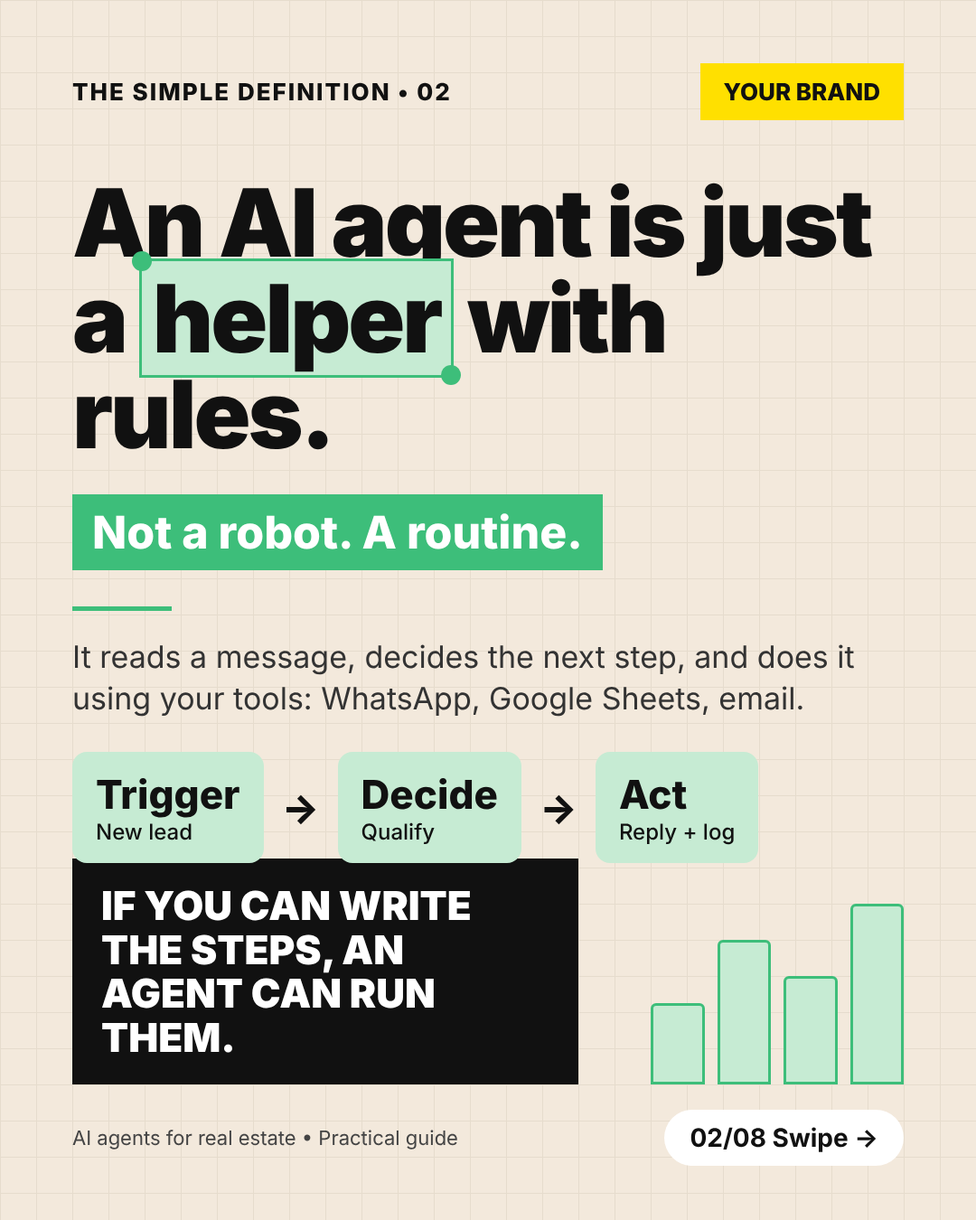
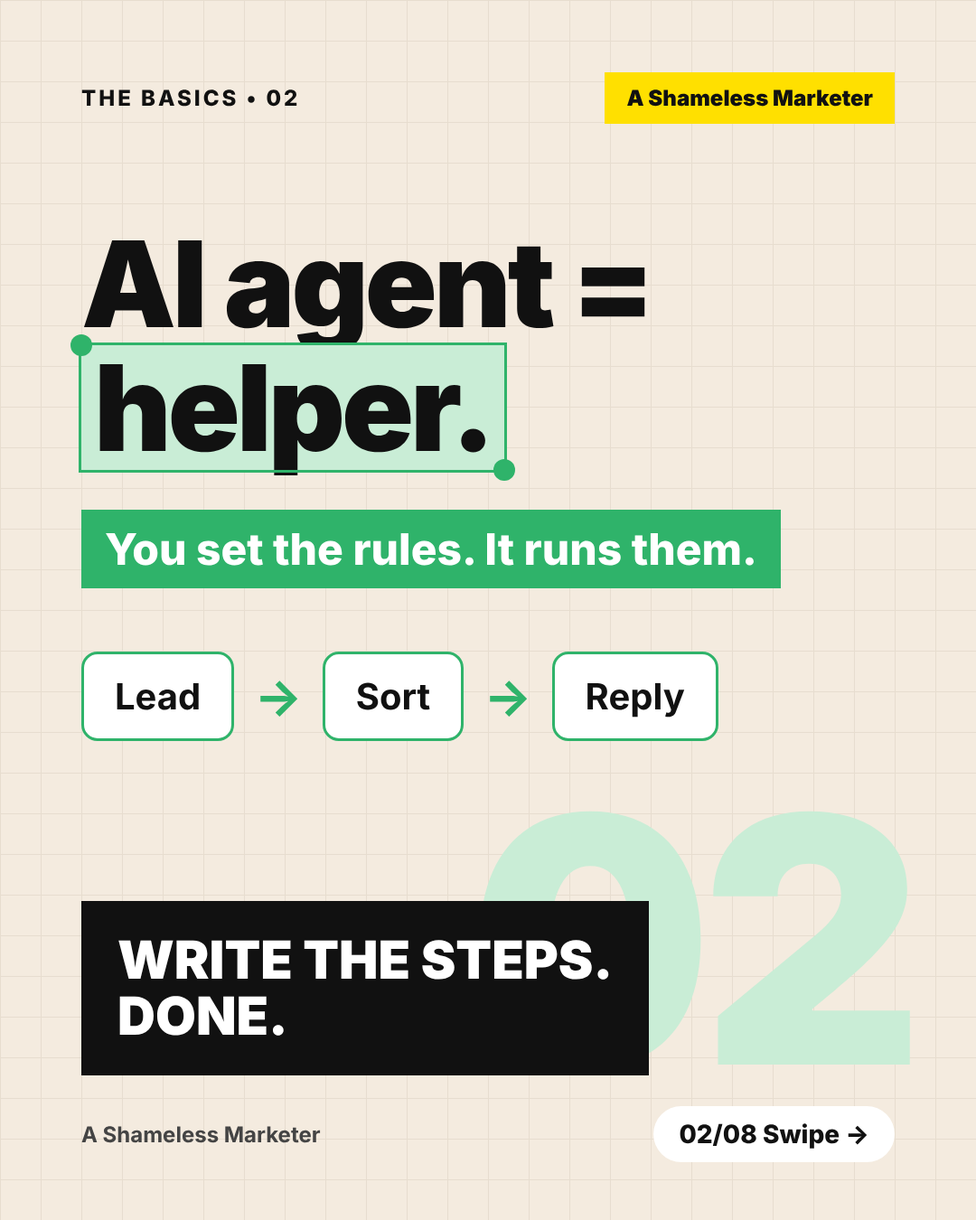
Redesign AI agent carousel: simpler copy, A Shameless Marketer brand
Claude-Session: https://claude.ai/code/session_017FmRxkTBoyYYVyWDoYHGRA

diff --git a/docs/carousels/ai-agent/carousel.html b/docs/carousels/ai-agent/carousel.html
@@ -1,84 +1,59 @@
-<!doctype html><html><head><meta charset="utf-8"><title>AI Agent Carousel</title><style>*{box-sizing:border-box;margin:0}body{background:#ddd}
+<!doctype html><html><head><meta charset="utf-8"><title>AI Agent Carousel</title><style>*{box-sizing:border-box;margin:0}body{background:#ccc}
 .s{width:1080px;height:1350px;position:relative;overflow:hidden;font-family:Inter,Arial,sans-serif;color:#111;
-background:#F3E9DC;background-image:linear-gradient(#e6dccd 1px,transparent 1px),linear-gradient(90deg,#e6dccd 1px,transparent 1px);background-size:40px 40px;padding:70px 80px;margin-bottom:20px}
-.top{display:flex;justify-content:space-between;align-items:center;font-weight:800;letter-spacing:2px;font-size:26px}
-.logo{background:#FFE000;padding:16px 26px;font-size:26px;letter-spacing:0}
-h1{font-size:104px;line-height:1.02;font-weight:900;letter-spacing:-3px;margin-top:60px}
-.hl{background:var(--l);padding:0 12px;position:relative;outline:3px solid var(--d)}
-.hl:before,.hl:after{content:"";position:absolute;width:22px;height:22px;border-radius:50%;background:var(--d)}
-.hl:before{left:-11px;top:-11px}.hl:after{right:-11px;bottom:-11px}
-.band{display:inline-block;background:var(--d);color:#fff;font-size:50px;font-weight:800;padding:12px 22px;margin-top:36px}
-.line{width:110px;height:5px;background:var(--d);margin:40px 0 28px}
-.body{font-size:34px;line-height:1.35;color:#333;max-width:880px}
-.proof{margin-top:36px;font-size:32px;position:relative;z-index:1}
-.take{position:absolute;left:80px;bottom:150px;background:#111;color:#fff;font-weight:900;font-size:44px;line-height:1.1;padding:28px 32px;max-width:560px}
-.foot{position:absolute;left:80px;right:80px;bottom:60px;display:flex;justify-content:space-between;align-items:center;font-size:22px;color:#444}
-.pill{background:#fff;border-radius:40px;padding:14px 28px;font-size:28px;font-weight:700;color:#111}
-.big{font-size:120px}.cap{font-size:30px;color:#555}
-.flow{display:flex;gap:20px;align-items:center;font-size:44px;font-weight:800}
-.flow div{background:var(--l);padding:20px 26px;border-radius:16px}.flow small{display:block;font-size:24px;font-weight:500}
-.cards{display:flex;gap:24px}.cards div{flex:1;background:#fff;padding:28px;border-radius:16px;font-size:34px}
-.cards b{display:block;font-size:26px;color:#666}.cards .hot{background:var(--l);font-weight:800}
-table{border-collapse:separate;border-spacing:0 8px;width:100%;font-size:30px}th{text-align:left;color:#666;font-size:24px;padding:0 16px}
-td{background:#fff;padding:16px}tr td:last-child{background:var(--l);text-align:center}
-.tl{display:flex;gap:14px}.tl div{flex:1;background:#fff;padding:20px;border-radius:14px;border-top:8px solid var(--d);font-size:26px}.tl b{display:block;font-size:30px}
-.check div{background:#fff;padding:16px 22px;margin-bottom:10px;border-left:8px solid var(--d);font-size:32px}
-.cta{margin-top:20px;background:var(--d);color:#fff;font-weight:800;padding:18px 24px;display:inline-block}
-.deco{position:absolute;z-index:0;right:80px;bottom:150px;width:280px;height:200px;display:flex;align-items:flex-end;gap:14px}
-.deco i{flex:1;background:var(--l);border:3px solid var(--d);border-radius:6px 6px 0 0}</style></head><body><div class="s" id="s1" style="--l:#D9C2F0;--d:#A77BD8">
-<div class="top"><span>THE AGENT QUESTION • 01</span><span class="logo">YOUR BRAND</span></div>
-<h1>Agents lose hours to <span class="hl">admin</span> every day.</h1>
-<div class="band">But who said you have to do it?</div><div class="line"></div><div class="body">Replying to leads, sending listings, chasing documents. Most of it is the same task, every day.</div>
-<div class="proof"><div class="big">📱💬📄</div><div class="cap">The same 4 tasks, every single day</div></div>
-<div class="deco"><i style="height:45%"></i><i style="height:80%"></i><i style="height:60%"></i><i style="height:100%"></i></div>
-<div class="take">YOU WERE HIRED TO SELL, NOT TO COPY-PASTE.</div>
-<div class="foot"><span>AI agents for real estate • Practical guide</span><span class="pill">01/08 Swipe →</span></div></div><div class="s" id="s2" style="--l:#C6EBD3;--d:#3DBE7A">
-<div class="top"><span>THE SIMPLE DEFINITION • 02</span><span class="logo">YOUR BRAND</span></div>
-<h1>An AI agent is just a <span class="hl">helper</span> with rules.</h1>
-<div class="band">Not a robot. A routine.</div><div class="line"></div><div class="body">It reads a message, decides the next step, and does it using your tools: WhatsApp, Google Sheets, email.</div>
-<div class="proof"><div class="flow"><div>Trigger<small>New lead</small></div>→<div>Decide<small>Qualify</small></div>→<div>Act<small>Reply + log</small></div></div></div>
-<div class="deco"><i style="height:45%"></i><i style="height:80%"></i><i style="height:60%"></i><i style="height:100%"></i></div>
-<div class="take">IF YOU CAN WRITE THE STEPS, AN AGENT CAN RUN THEM.</div>
-<div class="foot"><span>AI agents for real estate • Practical guide</span><span class="pill">02/08 Swipe →</span></div></div><div class="s" id="s3" style="--l:#C5E3FA;--d:#5BAFE8">
-<div class="top"><span>THE LEAD REPLY • 03</span><span class="logo">YOUR BRAND</span></div>
-<h1>Leads go <span class="hl">cold</span> while you're at a viewing.</h1>
-<div class="band">Agent fix: reply in under 1 minute.</div><div class="line"></div><div class="body">The agent answers new enquiries, asks 3 questions (budget, area, move-in date) and saves the answers to your sheet.</div>
-<div class="proof"><div class="cards"><div><b>Before</b>Reply in hours</div><div class="hot"><b>After</b>Under 1 min, 24/7</div></div></div>
-<div class="deco"><i style="height:45%"></i><i style="height:80%"></i><i style="height:60%"></i><i style="height:100%"></i></div>
-<div class="take">FIRST TO REPLY OFTEN WINS THE LEAD.</div>
-<div class="foot"><span>AI agents for real estate • Practical guide</span><span class="pill">03/08 Swipe →</span></div></div><div class="s" id="s4" style="--l:#D9C2F0;--d:#A77BD8">
-<div class="top"><span>THE LISTING MATCH • 04</span><span class="logo">YOUR BRAND</span></div>
-<h1>Stop <span class="hl">scrolling</span> your own listings.</h1>
-<div class="band">Agent fix: match buyers to units.</div><div class="line"></div><div class="body">A new unit comes in. The agent checks your buyer list and drafts a message to each buyer who fits.</div>
-<div class="proof"><table><tr><th>Buyer</th><th>Budget</th><th>Area</th><th>Match</th></tr><tr><td>Lead A</td><td>RM600k</td><td>Mont Kiara</td><td>✅</td></tr><tr><td>Lead B</td><td>RM450k</td><td>Cheras</td><td>❌</td></tr><tr><td>Lead C</td><td>RM650k</td><td>Mont Kiara</td><td>✅</td></tr></table></div>
-<div class="deco"><i style="height:45%"></i><i style="height:80%"></i><i style="height:60%"></i><i style="height:100%"></i></div>
-<div class="take">YOUR DATABASE SHOULD WORK WHILE YOU SLEEP.</div>
-<div class="foot"><span>AI agents for real estate • Practical guide</span><span class="pill">04/08 Swipe →</span></div></div><div class="s" id="s5" style="--l:#C6EBD3;--d:#3DBE7A">
-<div class="top"><span>THE FOLLOW-UP • 05</span><span class="logo">YOUR BRAND</span></div>
-<h1>Most deals die in <span class="hl">silence.</span> </h1>
-<div class="band">Agent fix: never forget a follow-up.</div><div class="line"></div><div class="body">The agent tracks every lead and nudges you, or the client, on day 3, 7 and 14.</div>
-<div class="proof"><div class="tl"><div><b>Day 1</b>Viewing</div><div><b>Day 3</b>"Any questions?"</div><div><b>Day 7</b>Similar unit</div><div><b>Day 14</b>Market update</div></div></div>
-<div class="deco"><i style="height:45%"></i><i style="height:80%"></i><i style="height:60%"></i><i style="height:100%"></i></div>
-<div class="take">FOLLOW-UP IS A SYSTEM, NOT A MOOD.</div>
-<div class="foot"><span>AI agents for real estate • Practical guide</span><span class="pill">05/08 Swipe →</span></div></div><div class="s" id="s6" style="--l:#C5E3FA;--d:#5BAFE8">
-<div class="top"><span>THE PAPERWORK • 06</span><span class="logo">YOUR BRAND</span></div>
-<h1>Chasing <span class="hl">documents</span> eats your week.</h1>
-<div class="band">Agent fix: checklist + reminders.</div><div class="line"></div><div class="body">The agent sends each client a list, ticks off what arrives and reminds them about what's missing.</div>
-<div class="proof"><div class="check"><div>✅ IC</div><div>✅ Payslip</div><div>⏳ Bank statement</div><div>⏳ EPF statement</div></div></div>
-<div class="deco"><i style="height:45%"></i><i style="height:80%"></i><i style="height:60%"></i><i style="height:100%"></i></div>
-<div class="take">LET THE AGENT NAG. YOU CLOSE.</div>
-<div class="foot"><span>AI agents for real estate • Practical guide</span><span class="pill">06/08 Swipe →</span></div></div><div class="s" id="s7" style="--l:#D9C2F0;--d:#A77BD8">
-<div class="top"><span>THE LIMITS • 07</span><span class="logo">YOUR BRAND</span></div>
-<h1>Agents <span class="hl">can't</span> replace trust.</h1>
-<div class="band">Know where to draw the line.</div><div class="line"></div>
-<div class="proof"><div class="check"><div>✅ Replies, sorting, reminders, drafts</div><div>❌ Pricing advice, negotiation, legal answers</div><div>⚠ Check anything sent under your name</div></div></div>
-<div class="deco"><i style="height:45%"></i><i style="height:80%"></i><i style="height:60%"></i><i style="height:100%"></i></div>
-<div class="take">AUTOMATE THE ROUTINE. KEEP THE RELATIONSHIP.</div>
-<div class="foot"><span>AI agents for real estate • Practical guide</span><span class="pill">07/08 Swipe →</span></div></div><div class="s" id="s8" style="--l:#C6EBD3;--d:#3DBE7A">
-<div class="top"><span>THE START • 08</span><span class="logo">YOUR BRAND</span></div>
-<h1>Start with <span class="hl">one</span> task.</h1>
-<div class="band">Not ten. One.</div><div class="line"></div><div class="body">Pick the job you repeat most this week. Write the steps on paper. That's your first agent.<br><b>Comment "AGENT" for my starter setup.</b></div>
-<div class="proof"><div class="check"><div>1. WhatsApp Business auto-reply</div><div>2. Google Sheets</div><div>3. ChatGPT / Claude + Zapier or Make</div></div></div>
-<div class="deco"><i style="height:45%"></i><i style="height:80%"></i><i style="height:60%"></i><i style="height:100%"></i></div>
-<div class="take">SMALL AGENT. BIG HOURS BACK.</div>
-<div class="foot"><span>AI agents for real estate • Practical guide</span><span class="pill">08/08 Follow for more →</span></div></div></body></html>
+background:#F4EBDF;background-image:linear-gradient(#e7ddcf 1px,transparent 1px),linear-gradient(90deg,#e7ddcf 1px,transparent 1px);
+background-size:45px 45px;padding:80px 90px;margin-bottom:20px}
+.top{display:flex;justify-content:space-between;align-items:center}
+.lab{font-weight:800;letter-spacing:3px;font-size:24px}
+.logo{background:#FFE000;padding:14px 24px;font-weight:900;font-size:24px}
+h1{font-size:132px;line-height:1.02;font-weight:900;letter-spacing:-4px;margin-top:110px}
+.hl{background:var(--l);padding:0 14px;position:relative;outline:3px solid var(--d);display:inline-block;line-height:1.05}
+.hl:before,.hl:after{content:"";position:absolute;width:24px;height:24px;border-radius:50%;background:var(--d)}
+.hl:before{left:-12px;top:-12px}.hl:after{right:-12px;bottom:-12px}
+.band{display:inline-block;background:var(--d);color:#fff;font-size:48px;font-weight:800;padding:14px 26px;margin-top:44px}
+.proof{margin-top:70px;font-size:40px;font-weight:700}
+.emoji{font-size:110px;letter-spacing:20px}
+.flow{display:flex;align-items:center;gap:22px}.flow span{background:#fff;border:3px solid var(--d);padding:22px 34px;border-radius:18px}
+.flow em{font-style:normal;color:var(--d);font-size:56px}
+.chips{display:flex;flex-wrap:wrap;gap:18px}.chips span{background:#fff;padding:20px 30px;border-radius:60px;border:3px solid var(--d)}
+.vs{display:flex;gap:24px}.vs div{background:#fff;padding:26px 40px;border-radius:18px;font-size:56px;font-weight:900}
+.vs small{display:block;font-size:24px;color:#777;font-weight:600}.vs .on{background:var(--l);outline:3px solid var(--d)}
+.dots{display:flex;align-items:center;width:640px}.dots i{width:48px;height:48px;border-radius:50%;background:var(--d)}
+.dots b{flex:1;height:6px;background:var(--d)}
+.cta{display:inline-block;background:#fff;border:4px dashed var(--d);padding:24px 36px;font-size:52px;font-weight:900}
+.take{position:absolute;left:90px;bottom:160px;background:#111;color:#fff;font-weight:900;font-size:58px;line-height:1.08;padding:34px 40px}
+.num{position:absolute;right:70px;bottom:120px;font-size:380px;font-weight:900;color:var(--l);line-height:1;letter-spacing:-12px;z-index:0}
+.take,.foot{z-index:1}
+.foot{position:absolute;left:90px;right:90px;bottom:64px;display:flex;justify-content:space-between;align-items:center;font-size:24px;font-weight:700;color:#444}
+.pill{background:#fff;border-radius:40px;padding:14px 28px;font-size:28px;font-weight:800;color:#111}</style></head><body><div class="s" id="s1" style="--l:#DCC8F2;--d:#9B6BD6">
+<div class="top"><span class="lab">THE AGENT QUESTION • 01</span><span class="logo">A Shameless Marketer</span></div>
+<h1>Too much<br><span class="hl">admin?</span></h1><div class="band">Let an agent do it.</div><div class="proof"><div class="emoji">📱 💬 📄</div></div>
+<div class="num">01</div><div class="take">SELL MORE.<br>TYPE LESS.</div>
+<div class="foot"><span>A Shameless Marketer</span><span class="pill">01/08 Swipe →</span></div></div><div class="s" id="s2" style="--l:#C9EDD6;--d:#2FB36A">
+<div class="top"><span class="lab">THE BASICS • 02</span><span class="logo">A Shameless Marketer</span></div>
+<h1>AI agent =<br><span class="hl">helper.</span></h1><div class="band">You set the rules. It runs them.</div><div class="proof"><div class="flow"><span>Lead</span><em>→</em><span>Sort</span><em>→</em><span>Reply</span></div></div>
+<div class="num">02</div><div class="take">WRITE THE STEPS.<br>DONE.</div>
+<div class="foot"><span>A Shameless Marketer</span><span class="pill">02/08 Swipe →</span></div></div><div class="s" id="s3" style="--l:#CDE6FA;--d:#3D9BE0">
+<div class="top"><span class="lab">THE LEAD REPLY • 03</span><span class="logo">A Shameless Marketer</span></div>
+<h1>Reply in<br><span class="hl">1 minute.</span></h1><div class="band">Even at a viewing.</div><div class="proof"><div class="vs"><div><small>Before</small>Hours</div><div class="on"><small>After</small>1 min</div></div></div>
+<div class="num">03</div><div class="take">FAST REPLY<br>WINS.</div>
+<div class="foot"><span>A Shameless Marketer</span><span class="pill">03/08 Swipe →</span></div></div><div class="s" id="s4" style="--l:#DCC8F2;--d:#9B6BD6">
+<div class="top"><span class="lab">THE LISTING MATCH • 04</span><span class="logo">A Shameless Marketer</span></div>
+<h1>New unit?<br><span class="hl">Matched.</span></h1><div class="band">It finds the right buyer.</div><div class="proof"><div class="chips"><span>Lead A ✅</span><span>Lead B ❌</span><span>Lead C ✅</span></div></div>
+<div class="num">04</div><div class="take">YOUR LIST<br>WORKS FOR YOU.</div>
+<div class="foot"><span>A Shameless Marketer</span><span class="pill">04/08 Swipe →</span></div></div><div class="s" id="s5" style="--l:#C9EDD6;--d:#2FB36A">
+<div class="top"><span class="lab">THE FOLLOW-UP • 05</span><span class="logo">A Shameless Marketer</span></div>
+<h1>Never <span class="hl">forget</span><br>a lead.</h1><div class="band">Day 3. Day 7. Day 14.</div><div class="proof"><div class="dots"><i></i><b></b><i></i><b></b><i></i></div></div>
+<div class="num">05</div><div class="take">FOLLOW-UP<br>IS A SYSTEM.</div>
+<div class="foot"><span>A Shameless Marketer</span><span class="pill">05/08 Swipe →</span></div></div><div class="s" id="s6" style="--l:#CDE6FA;--d:#3D9BE0">
+<div class="top"><span class="lab">THE PAPERWORK • 06</span><span class="logo">A Shameless Marketer</span></div>
+<h1>Stop <span class="hl">chasing</span><br>documents.</h1><div class="band">It reminds the client.</div><div class="proof"><div class="chips"><span>✅ IC</span><span>✅ Payslip</span><span>⏳ Bank statement</span></div></div>
+<div class="num">06</div><div class="take">LET IT NAG.<br>YOU CLOSE.</div>
+<div class="foot"><span>A Shameless Marketer</span><span class="pill">06/08 Swipe →</span></div></div><div class="s" id="s7" style="--l:#DCC8F2;--d:#9B6BD6">
+<div class="top"><span class="lab">THE LIMITS • 07</span><span class="logo">A Shameless Marketer</span></div>
+<h1>It <span class="hl">can't</span><br>build trust.</h1><div class="band">That's still your job.</div><div class="proof"><div class="chips"><span>✅ Admin</span><span>❌ Advice</span><span>❌ Negotiation</span></div></div>
+<div class="num">07</div><div class="take">AUTOMATE TASKS.<br>NOT PEOPLE.</div>
+<div class="foot"><span>A Shameless Marketer</span><span class="pill">07/08 Swipe →</span></div></div><div class="s" id="s8" style="--l:#C9EDD6;--d:#2FB36A">
+<div class="top"><span class="lab">THE START • 08</span><span class="logo">A Shameless Marketer</span></div>
+<h1>Start with <span class="hl">one</span><br>task.</h1><div class="band">Not ten. One.</div><div class="proof"><div class="cta">Comment “AGENT” 👇</div></div>
+<div class="num">08</div><div class="take">SMALL AGENT.<br>BIG TIME SAVED.</div>
+<div class="foot"><span>A Shameless Marketer</span><span class="pill">08/08 Follow for more →</span></div></div></body></html>

diff --git a/docs/carousels/ai-agent/build.py b/docs/carousels/ai-agent/build.py
@@ -1,77 +1,86 @@
-"""Build the 'AI agent for real estate' LinkedIn carousel as HTML + PNGs."""
-import json, pathlib
+"""Build the 'AI agent for real estate' LinkedIn carousel (simple version).
+
+Usage: python3 build.py && node shot.js
+"""
+import pathlib
+
 H = pathlib.Path(__file__).parent
-C = {"p": ("#D9C2F0", "#A77BD8"), "g": ("#C6EBD3", "#3DBE7A"), "b": ("#C5E3FA", "#5BAFE8")}
+BRAND = "A Shameless Marketer"
+C = {"p": ("#DCC8F2", "#9B6BD6"), "g": ("#C9EDD6", "#2FB36A"), "b": ("#CDE6FA", "#3D9BE0")}
+
+
+def chips(*items):
+    return '<div class="chips">' + "".join(f"<span>{i}</span>" for i in items) + "</div>"
+
+
+def flow(*items):
+    return '<div class="flow">' + '<em>→</em>'.join(f"<span>{i}</span>" for i in items) + "</div>"
+
+
 S = [
- dict(n=1,a="p",label="THE AGENT QUESTION",pre="Agents lose hours to",hl="admin",post="every day.",band="But who said you have to do it?",
-  body="Replying to leads, sending listings, chasing documents. Most of it is the same task, every day.",
-  take="YOU WERE HIRED TO SELL, NOT TO COPY-PASTE.",proof='<div class="big">📱💬📄</div><div class="cap">The same 4 tasks, every single day</div>'),
- dict(n=2,a="g",label="THE SIMPLE DEFINITION",pre="An AI agent is just a",hl="helper",post="with rules.",band="Not a robot. A routine.",
-  body="It reads a message, decides the next step, and does it using your tools: WhatsApp, Google Sheets, email.",
-  take="IF YOU CAN WRITE THE STEPS, AN AGENT CAN RUN THEM.",
-  proof='<div class="flow"><div>Trigger<small>New lead</small></div>→<div>Decide<small>Qualify</small></div>→<div>Act<small>Reply + log</small></div></div>'),
- dict(n=3,a="b",label="THE LEAD REPLY",pre="Leads go",hl="cold",post="while you're at a viewing.",band="Agent fix: reply in under 1 minute.",
-  body="The agent answers new enquiries, asks 3 questions (budget, area, move-in date) and saves the answers to your sheet.",
-  take="FIRST TO REPLY OFTEN WINS THE LEAD.",
-  proof='<div class="cards"><div><b>Before</b>Reply in hours</div><div class="hot"><b>After</b>Under 1 min, 24/7</div></div>'),
- dict(n=4,a="p",label="THE LISTING MATCH",pre="Stop",hl="scrolling",post="your own listings.",band="Agent fix: match buyers to units.",
-  body="A new unit comes in. The agent checks your buyer list and drafts a message to each buyer who fits.",
-  take="YOUR DATABASE SHOULD WORK WHILE YOU SLEEP.",
-  proof='<table><tr><th>Buyer</th><th>Budget</th><th>Area</th><th>Match</th></tr><tr><td>Lead A</td><td>RM600k</td><td>Mont Kiara</td><td>✅</td></tr><tr><td>Lead B</td><td>RM450k</td><td>Cheras</td><td>❌</td></tr><tr><td>Lead C</td><td>RM650k</td><td>Mont Kiara</td><td>✅</td></tr></table>'),
- dict(n=5,a="g",label="THE FOLLOW-UP",pre="Most deals die in",hl="silence.",post="",band="Agent fix: never forget a follow-up.",
-  body="The agent tracks every lead and nudges you, or the client, on day 3, 7 and 14.",
-  take="FOLLOW-UP IS A SYSTEM, NOT A MOOD.",
-  proof='<div class="tl"><div><b>Day 1</b>Viewing</div><div><b>Day 3</b>"Any questions?"</div><div><b>Day 7</b>Similar unit</div><div><b>Day 14</b>Market update</div></div>'),
- dict(n=6,a="b",label="THE PAPERWORK",pre="Chasing",hl="documents",post="eats your week.",band="Agent fix: checklist + reminders.",
-  body="The agent sends each client a list, ticks off what arrives and reminds them about what's missing.",
-  take="LET THE AGENT NAG. YOU CLOSE.",
-  proof='<div class="check"><div>✅ IC</div><div>✅ Payslip</div><div>⏳ Bank statement</div><div>⏳ EPF statement</div></div>'),
- dict(n=7,a="p",label="THE LIMITS",pre="Agents",hl="can't",post="replace trust.",band="Know where to draw the line.",
-  body="",take="AUTOMATE THE ROUTINE. KEEP THE RELATIONSHIP.",
-  proof='<div class="check"><div>✅ Replies, sorting, reminders, drafts</div><div>❌ Pricing advice, negotiation, legal answers</div><div>⚠ Check anything sent under your name</div></div>'),
- dict(n=8,a="g",label="THE START",pre="Start with",hl="one",post="task.",band="Not ten. One.",
-  body="Pick the job you repeat most this week. Write the steps on paper. That's your first agent.<br><b>Comment \"AGENT\" for my starter setup.</b>",
-  take="SMALL AGENT. BIG HOURS BACK.",
-  proof='<div class="check"><div>1. WhatsApp Business auto-reply</div><div>2. Google Sheets</div><div>3. ChatGPT / Claude + Zapier or Make</div></div>'),
+    dict(a="p", label="THE AGENT QUESTION", h=["Too much", "admin?"], band="Let an agent do it.",
+         proof='<div class="emoji">📱 💬 📄</div>', take="SELL MORE.<br>TYPE LESS."),
+    dict(a="g", label="THE BASICS", h=["AI agent =", "helper."], band="You set the rules. It runs them.",
+         proof=flow("Lead", "Sort", "Reply"), take="WRITE THE STEPS.<br>DONE."),
+    dict(a="b", label="THE LEAD REPLY", h=["Reply in", "1 minute."], band="Even at a viewing.",
+         proof='<div class="vs"><div><small>Before</small>Hours</div><div class="on"><small>After</small>1 min</div></div>',
+         take="FAST REPLY<br>WINS."),
+    dict(a="p", label="THE LISTING MATCH", h=["New unit?", "Matched."], band="It finds the right buyer.",
+         proof=chips("Lead A ✅", "Lead B ❌", "Lead C ✅"), take="YOUR LIST<br>WORKS FOR YOU."),
+    dict(a="g", label="THE FOLLOW-UP", h=["Never", "forget", "a lead."], band="Day 3. Day 7. Day 14.",
+         proof='<div class="dots"><i></i><b></b><i></i><b></b><i></i></div>', take="FOLLOW-UP<br>IS A SYSTEM."),
+    dict(a="b", label="THE PAPERWORK", h=["Stop", "chasing", "documents."], band="It reminds the client.",
+         proof=chips("✅ IC", "✅ Payslip", "⏳ Bank statement"), take="LET IT NAG.<br>YOU CLOSE."),
+    dict(a="p", label="THE LIMITS", h=["It", "can't", "build trust."], band="That's still your job.",
+         proof=chips("✅ Admin", "❌ Advice", "❌ Negotiation"), take="AUTOMATE TASKS.<br>NOT PEOPLE."),
+    dict(a="g", label="THE START", h=["Start with", "one", "task."], band="Not ten. One.",
+         proof='<div class="cta">Comment “AGENT” 👇</div>', take="SMALL AGENT.<br>BIG TIME SAVED."),
 ]
-CSS = """*{box-sizing:border-box;margin:0}body{background:#ddd}
+
+CSS = """*{box-sizing:border-box;margin:0}body{background:#ccc}
 .s{width:1080px;height:1350px;position:relative;overflow:hidden;font-family:Inter,Arial,sans-serif;color:#111;
-background:#F3E9DC;background-image:linear-gradient(#e6dccd 1px,transparent 1px),linear-gradient(90deg,#e6dccd 1px,transparent 1px);background-size:40px 40px;padding:70px 80px;margin-bottom:20px}
-.top{display:flex;justify-content:space-between;align-items:center;font-weight:800;letter-spacing:2px;font-size:26px}
-.logo{background:#FFE000;padding:16px 26px;font-size:26px;letter-spacing:0}
-h1{font-size:104px;line-height:1.02;font-weight:900;letter-spacing:-3px;margin-top:60px}
-.hl{background:var(--l);padding:0 12px;position:relative;outline:3px solid var(--d)}
-.hl:before,.hl:after{content:"";position:absolute;width:22px;height:22px;border-radius:50%;background:var(--d)}
-.hl:before{left:-11px;top:-11px}.hl:after{right:-11px;bottom:-11px}
-.band{display:inline-block;background:var(--d);color:#fff;font-size:50px;font-weight:800;padding:12px 22px;margin-top:36px}
-.line{width:110px;height:5px;background:var(--d);margin:40px 0 28px}
-.body{font-size:34px;line-height:1.35;color:#333;max-width:880px}
-.proof{margin-top:36px;font-size:32px;position:relative;z-index:1}
-.take{position:absolute;left:80px;bottom:150px;background:#111;color:#fff;font-weight:900;font-size:44px;line-height:1.1;padding:28px 32px;max-width:560px}
-.foot{position:absolute;left:80px;right:80px;bottom:60px;display:flex;justify-content:space-between;align-items:center;font-size:22px;color:#444}
-.pill{background:#fff;border-radius:40px;padding:14px 28px;font-size:28px;font-weight:700;color:#111}
-.big{font-size:120px}.cap{font-size:30px;color:#555}
-.flow{display:flex;gap:20px;align-items:center;font-size:44px;font-weight:800}
-.flow div{background:var(--l);padding:20px 26px;border-radius:16px}.flow small{display:block;font-size:24px;font-weight:500}
-.cards{display:flex;gap:24px}.cards div{flex:1;background:#fff;padding:28px;border-radius:16px;font-size:34px}
-.cards b{display:block;font-size:26px;color:#666}.cards .hot{background:var(--l);font-weight:800}
-table{border-collapse:separate;border-spacing:0 8px;width:100%;font-size:30px}th{text-align:left;color:#666;font-size:24px;padding:0 16px}
-td{background:#fff;padding:16px}tr td:last-child{background:var(--l);text-align:center}
-.tl{display:flex;gap:14px}.tl div{flex:1;background:#fff;padding:20px;border-radius:14px;border-top:8px solid var(--d);font-size:26px}.tl b{display:block;font-size:30px}
-.check div{background:#fff;padding:16px 22px;margin-bottom:10px;border-left:8px solid var(--d);font-size:32px}
-.cta{margin-top:20px;background:var(--d);color:#fff;font-weight:800;padding:18px 24px;display:inline-block}
-.deco{position:absolute;z-index:0;right:80px;bottom:150px;width:280px;height:200px;display:flex;align-items:flex-end;gap:14px}
-.deco i{flex:1;background:var(--l);border:3px solid var(--d);border-radius:6px 6px 0 0}"""
-def slide(s):
-    l,d = C[s["a"]]
-    body = f'<div class="body">{s["body"]}</div>' if s["body"] else ""
-    return f'''<div class="s" id="s{s["n"]}" style="--l:{l};--d:{d}">
-<div class="top"><span>{s["label"]} • 0{s["n"]}</span><span class="logo">YOUR BRAND</span></div>
-<h1>{s["pre"]} <span class="hl">{s["hl"]}</span> {s["post"]}</h1>
-<div class="band">{s["band"]}</div><div class="line"></div>{body}
-<div class="proof">{s["proof"]}</div>
-<div class="deco"><i style="height:45%"></i><i style="height:80%"></i><i style="height:60%"></i><i style="height:100%"></i></div>
-<div class="take">{s["take"]}</div>
-<div class="foot"><span>AI agents for real estate • Practical guide</span><span class="pill">0{s["n"]}/08 {"Follow for more" if s["n"]==8 else "Swipe"} →</span></div></div>'''
-html = f'<!doctype html><html><head><meta charset="utf-8"><title>AI Agent Carousel</title><style>{CSS}</style></head><body>{"".join(map(slide,S))}</body></html>'
-(H/"carousel.html").write_text(html)
+background:#F4EBDF;background-image:linear-gradient(#e7ddcf 1px,transparent 1px),linear-gradient(90deg,#e7ddcf 1px,transparent 1px);
+background-size:45px 45px;padding:80px 90px;margin-bottom:20px}
+.top{display:flex;justify-content:space-between;align-items:center}
+.lab{font-weight:800;letter-spacing:3px;font-size:24px}
+.logo{background:#FFE000;padding:14px 24px;font-weight:900;font-size:24px}
+h1{font-size:132px;line-height:1.02;font-weight:900;letter-spacing:-4px;margin-top:110px}
+.hl{background:var(--l);padding:0 14px;position:relative;outline:3px solid var(--d);display:inline-block;line-height:1.05}
+.hl:before,.hl:after{content:"";position:absolute;width:24px;height:24px;border-radius:50%;background:var(--d)}
+.hl:before{left:-12px;top:-12px}.hl:after{right:-12px;bottom:-12px}
+.band{display:inline-block;background:var(--d);color:#fff;font-size:48px;font-weight:800;padding:14px 26px;margin-top:44px}
+.proof{margin-top:70px;font-size:40px;font-weight:700}
+.emoji{font-size:110px;letter-spacing:20px}
+.flow{display:flex;align-items:center;gap:22px}.flow span{background:#fff;border:3px solid var(--d);padding:22px 34px;border-radius:18px}
+.flow em{font-style:normal;color:var(--d);font-size:56px}
+.chips{display:flex;flex-wrap:wrap;gap:18px}.chips span{background:#fff;padding:20px 30px;border-radius:60px;border:3px solid var(--d)}
+.vs{display:flex;gap:24px}.vs div{background:#fff;padding:26px 40px;border-radius:18px;font-size:56px;font-weight:900}
+.vs small{display:block;font-size:24px;color:#777;font-weight:600}.vs .on{background:var(--l);outline:3px solid var(--d)}
+.dots{display:flex;align-items:center;width:640px}.dots i{width:48px;height:48px;border-radius:50%;background:var(--d)}
+.dots b{flex:1;height:6px;background:var(--d)}
+.cta{display:inline-block;background:#fff;border:4px dashed var(--d);padding:24px 36px;font-size:52px;font-weight:900}
+.take{position:absolute;left:90px;bottom:160px;background:#111;color:#fff;font-weight:900;font-size:58px;line-height:1.08;padding:34px 40px}
+.num{position:absolute;right:70px;bottom:120px;font-size:380px;font-weight:900;color:var(--l);line-height:1;letter-spacing:-12px;z-index:0}
+.take,.foot{z-index:1}
+.foot{position:absolute;left:90px;right:90px;bottom:64px;display:flex;justify-content:space-between;align-items:center;font-size:24px;font-weight:700;color:#444}
+.pill{background:#fff;border-radius:40px;padding:14px 28px;font-size:28px;font-weight:800;color:#111}"""
+
+
+def slide(i, s):
+    l, d = C[s["a"]]
+    parts = s["h"]
+    if len(parts) == 2:
+        h = f'{parts[0]}<br><span class="hl">{parts[1]}</span>'
+    else:
+        h = f'{parts[0]} <span class="hl">{parts[1]}</span><br>{parts[2]}'
+    pill = "Follow for more →" if i == 8 else "Swipe →"
+    return f'''<div class="s" id="s{i}" style="--l:{l};--d:{d}">
+<div class="top"><span class="lab">{s["label"]} • 0{i}</span><span class="logo">{BRAND}</span></div>
+<h1>{h}</h1><div class="band">{s["band"]}</div><div class="proof">{s["proof"]}</div>
+<div class="num">0{i}</div><div class="take">{s["take"]}</div>
+<div class="foot"><span>{BRAND}</span><span class="pill">0{i}/08 {pill}</span></div></div>'''
+
+
+html = ('<!doctype html><html><head><meta charset="utf-8"><title>AI Agent Carousel</title>'
+        f'<style>{CSS}</style></head><body>{"".join(slide(i + 1, s) for i, s in enumerate(S))}</body></html>')
+(H / "carousel.html").write_text(html)
